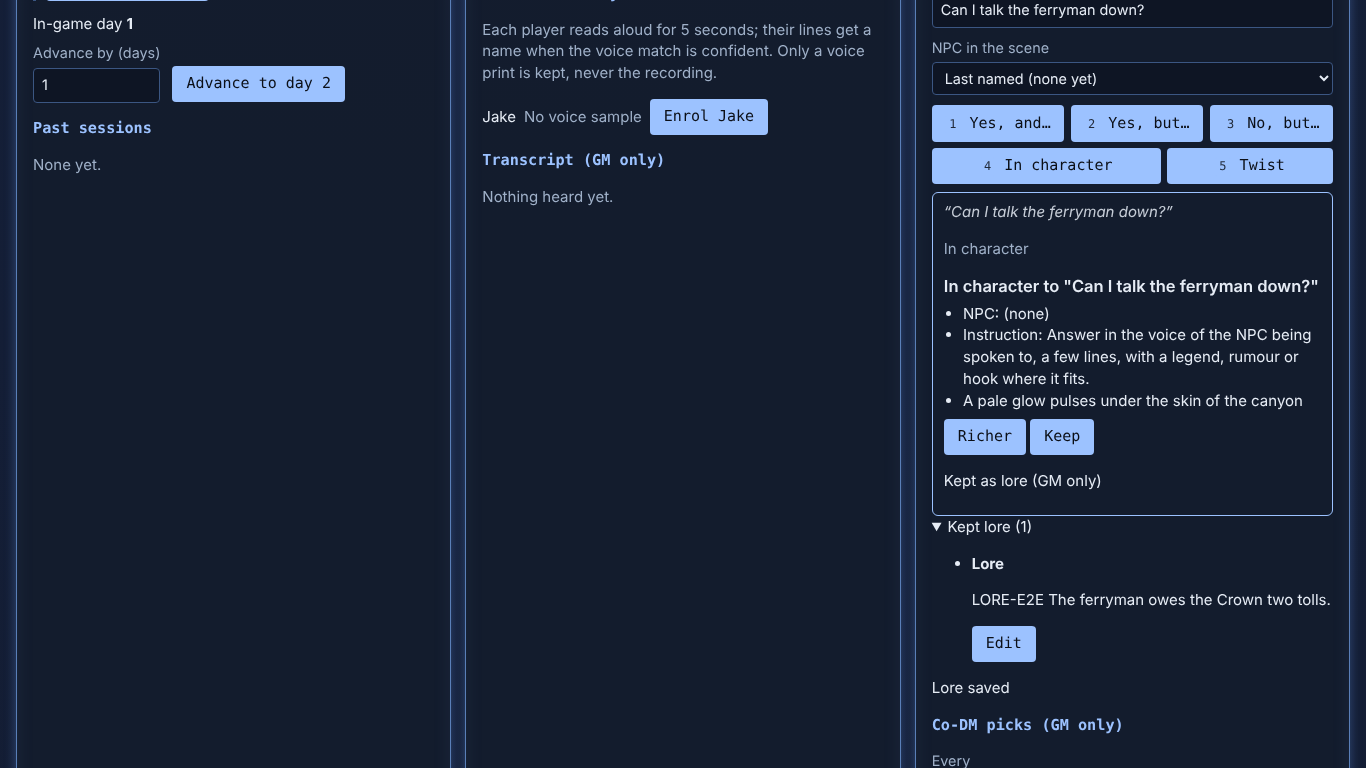
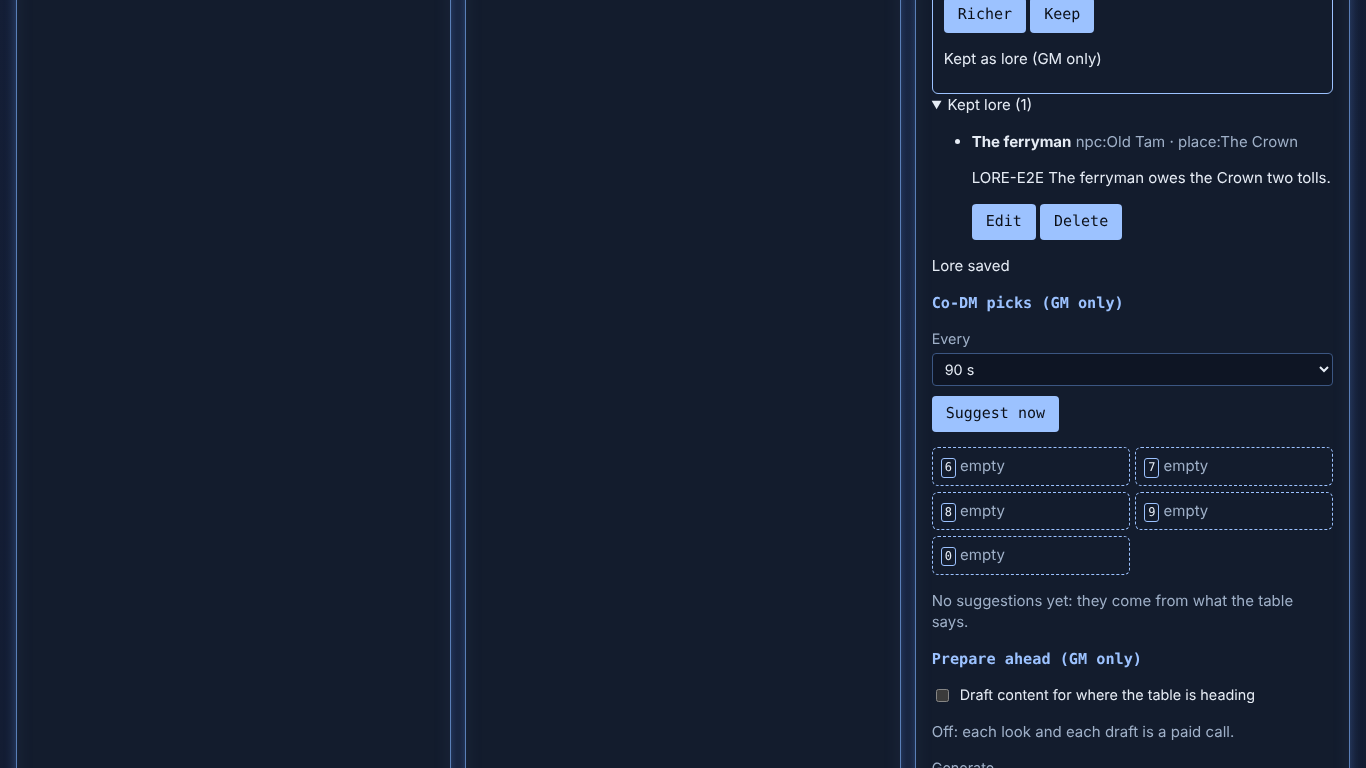
fix(codm): MD.3 review M3: Lore view edits title, NPC and place, and deletes
Claude-Session: https://claude.ai/code/session_015YxiCcnJqUjop1RT3KMcNN

diff --git a/apps/web/src/gm/LoreView.tsx b/apps/web/src/gm/LoreView.tsx
@@ -1,16 +1,26 @@
 import { useState } from 'react';
 import type { CampaignState } from '@the-system/engine';
 import type { LiveClient } from '../live';
-import { LORE_TAG, loreNotes } from './quickModel';
+import { LORE_TAG, loreNotes, loreScope, retagLore } from './quickModel';
+
+interface LoreDraft {
+  readonly id: string;
+  readonly title: string;
+  readonly body: string;
+  readonly npc: string;
+  readonly place: string;
+}
 
 /**
  * MD.3 Lore view (DESIGN §11 "Keep"): the lore the GM has kept, newest first,
- * each with the NPC, place and session it is tagged to, and an editor. Kept
- * lore is a GM note: GM-only, and the co-DM reads it for that NPC or place.
+ * each with the NPC, place and session it is tagged to. The GM edits a note's
+ * title, text, NPC and place, or deletes it (review M3). Kept lore is a GM
+ * note: GM-only, and the co-DM reads it for that NPC or place.
  */
 export function LoreView({ client, state }: { client: LiveClient; state: CampaignState }) {
   const notes = loreNotes(Object.values(state.notes));
-  const [editing, setEditing] = useState<{ id: string; body: string } | null>(null);
+  const [editing, setEditing] = useState<LoreDraft | null>(null);
+  const [busy, setBusy] = useState(false);
   const [message, setMessage] = useState<string | null>(null);
 
   const save = async () => {
@@ -20,17 +30,40 @@ export function LoreView({ client, state }: { client: LiveClient; state: Campaig
       setMessage('Lore cannot be empty');
       return;
     }
+    const note = state.notes[editing.id];
+    if (!note) {
+      setEditing(null);
+      setMessage('That lore was deleted');
+      return;
+    }
+    setBusy(true);
     const r = await client.command({
       type: 'note.edit',
       noteId: editing.id,
       characterId: null,
+      title: editing.title.trim() || 'Lore',
       body,
+      tags: retagLore(note.tags, editing),
     });
+    setBusy(false);
     if (r.ok) {
       setEditing(null);
       setMessage('Lore saved');
     } else setMessage(r.error);
   };
+
+  const remove = async (id: string, title: string) => {
+    if (!window.confirm(`Delete the kept lore "${title}"? The co-DM stops using it.`)) return;
+    setBusy(true);
+    const r = await client.command({ type: 'note.delete', noteId: id, characterId: null });
+    setBusy(false);
+    if (r.ok) {
+      if (editing?.id === id) setEditing(null);
+      setMessage('Lore deleted');
+    } else setMessage(r.error);
+  };
+
+  const set = (patch: Partial<LoreDraft>) => setEditing((d) => (d ? { ...d, ...patch } : d));
 
   return (
     <details className="lore-view" data-testid="lore-view">
@@ -41,42 +74,75 @@ export function LoreView({ client, state }: { client: LiveClient; state: Campaig
         <ul aria-label="Kept lore">
           {notes.map((n) => (
             <li key={n.id} data-testid="lore-note">
-              <strong>{n.title}</strong>{' '}
-              <span className="muted">
-                {n.tags.filter((t) => t.toLowerCase() !== LORE_TAG).join(' · ')}
-              </span>
               {editing?.id === n.id ? (
                 <form
+                  aria-label="Edit kept lore"
                   onSubmit={(e) => {
                     e.preventDefault();
                     void save();
                   }}
                 >
                   <label>
+                    Title
+                    <input
+                      value={editing.title}
+                      maxLength={200}
+                      onChange={(e) => set({ title: e.target.value })}
+                    />
+                  </label>
+                  <label>
+                    NPC
+                    <input
+                      value={editing.npc}
+                      maxLength={100}
+                      placeholder="none"
+                      onChange={(e) => set({ npc: e.target.value })}
+                    />
+                  </label>
+                  <label>
+                    Place
+                    <input
+                      value={editing.place}
+                      maxLength={100}
+                      placeholder="none"
+                      onChange={(e) => set({ place: e.target.value })}
+                    />
+                  </label>
+                  <label>
                     Edit lore
                     <textarea
                       value={editing.body}
                       maxLength={4000}
                       rows={4}
-                      onChange={(e) => setEditing({ id: n.id, body: e.target.value })}
+                      onChange={(e) => set({ body: e.target.value })}
                     />
                   </label>
-                  <button type="submit">Save</button>{' '}
+                  <button type="submit" disabled={busy}>
+                    Save
+                  </button>{' '}
                   <button type="button" onClick={() => setEditing(null)}>
                     Cancel
                   </button>
                 </form>
               ) : (
                 <>
+                  <strong>{n.title}</strong>{' '}
+                  <span className="muted">
+                    {n.tags.filter((t) => t.toLowerCase() !== LORE_TAG).join(' · ')}
+                  </span>
                   <p className="lore-body">{n.body}</p>
                   <button
                     type="button"
+                    disabled={busy}
                     onClick={() => {
                       setMessage(null);
-                      setEditing({ id: n.id, body: n.body });
+                      setEditing({ id: n.id, title: n.title, body: n.body, ...loreScope(n.tags) });
                     }}
                   >
                     Edit
+                  </button>{' '}
+                  <button type="button" disabled={busy} onClick={() => void remove(n.id, n.title)}>
+                    Delete
                   </button>
                 </>
               )}

diff --git a/e2e/MD.3.spec.ts b/e2e/MD.3.spec.ts
@@ -82,6 +82,16 @@ test('Keep saves a quick answer as GM lore; the Lore view lists and edits it', a
   await note.getByRole('button', { name: 'Save' }).click();
   await expect(lore.getByRole('status')).toHaveText('Lore saved');
   await expect(note).toContainText('two tolls');
+  // Review M3: the GM retitles it and tags it to an NPC and a place.
+  await note.getByRole('button', { name: 'Edit' }).click();
+  const edit = note.getByRole('form', { name: 'Edit kept lore' });
+  await edit.getByLabel('Title').fill('The ferryman');
+  await edit.getByLabel('NPC').fill('Old Tam');
+  await edit.getByLabel('Place').fill('The Crown');
+  await edit.getByRole('button', { name: 'Save' }).click();
+  await expect(lore.getByRole('status')).toHaveText('Lore saved');
+  await expect(note.locator('strong')).toHaveText('The ferryman');
+  await expect(note).toContainText('npc:Old Tam · place:The Crown');
   await lore.scrollIntoViewIfNeeded();
   await gm.screenshot({ path: path.join(shots, 'gm-lore-view-1366x768.png') });
 
@@ -97,6 +107,17 @@ test('Keep saves a quick answer as GM lore; the Lore view lists and edits it', a
   await expect(codm.getByText('Kept as lore (GM only)').last()).toBeVisible();
   await expect(lore.locator('summary')).toHaveText('Kept lore (2)');
   await expect(note.first()).toContainText('Sap & Sinew');
+
+  // Review M3: the GM deletes a kept note (after confirming).
+  gm.once('dialog', (d) => void d.accept());
+  await lore
+    .getByTestId('lore-note')
+    .filter({ hasText: 'two tolls' })
+    .getByRole('button', { name: 'Delete' })
+    .click();
+  await expect(lore.getByRole('status')).toHaveText('Lore deleted');
+  await expect(lore.locator('summary')).toHaveText('Kept lore (1)');
+  await expect(lore).not.toContainText('two tolls');
 
   // Players never see kept lore.
   expect(frames.length).toBeGreaterThan(0);

diff --git a/apps/web/test/keepLore.test.ts b/apps/web/test/keepLore.test.ts
@@ -58,3 +58,31 @@ describe('Keep lore (MD.3)', () => {
     expect(out.map((x) => x.id)).toEqual(['b', 'a']);
   });
 });
+
+// MD.3 review M3: the Lore view retags a note to another NPC or place.
+describe('Lore view retagging (MD.3 review M3)', () => {
+  it('reads the NPC and place a note is tagged to', async () => {
+    const { loreScope } = await import('../src/gm/quickModel');
+    expect(loreScope(['lore', 'NPC:Old Tam', 'place:The Crown', 'session:2'])).toEqual({
+      npc: 'Old Tam',
+      place: 'The Crown',
+    });
+    expect(loreScope(['lore'])).toEqual({ npc: '', place: '' });
+  });
+
+  it('replaces the NPC and place tags and keeps every other tag', async () => {
+    const { retagLore } = await import('../src/gm/quickModel');
+    expect(
+      retagLore(['lore', 'npc:Old Tam', 'place:The Crown', 'session:2', 'debt'], {
+        npc: ' Sal ',
+        place: 'Rake Canyons',
+      }),
+    ).toEqual(['lore', 'npc:Sal', 'place:Rake Canyons', 'session:2', 'debt']);
+    // Blank removes; the lore tag is never lost, even if missing.
+    expect(retagLore(['npc:Sal', 'session:1'], { npc: '', place: '' })).toEqual([
+      'lore',
+      'session:1',
+    ]);
+    expect(retagLore(['Lore', 'PLACE:x'], { npc: 'A', place: '' })).toEqual(['Lore', 'npc:A']);
+  });
+});

diff --git a/apps/web/src/gm/quickModel.ts b/apps/web/src/gm/quickModel.ts
@@ -204,3 +204,28 @@ export function loreNotes<
       a.updatedAt < b.updatedAt ? 1 : a.updatedAt > b.updatedAt ? -1 : a.id < b.id ? -1 : 1,
     );
 }
+
+/** MD.3 review M3: the NPC and place a kept note is tagged to (first of each). */
+export function loreScope(tags: readonly string[]): { npc: string; place: string } {
+  const pick = (prefix: string): string =>
+    tags.find((t) => t.toLowerCase().startsWith(prefix))?.slice(prefix.length) ?? '';
+  return { npc: pick('npc:'), place: pick('place:') };
+}
+
+/**
+ * MD.3 review M3: a note's tags after the GM retags it in the Lore view: the
+ * NPC and place tags are replaced (blank removes them), every other tag (lore,
+ * session, the GM's own) is kept in place, and the lore tag is never lost.
+ */
+export function retagLore(
+  tags: readonly string[],
+  scope: { readonly npc: string; readonly place: string },
+): string[] {
+  const npc = scope.npc.trim();
+  const place = scope.place.trim();
+  const kept = tags.filter((t) => !/^(npc|place):/iu.test(t));
+  const out = kept.some((t) => t.toLowerCase() === LORE_TAG) ? kept : [LORE_TAG, ...kept];
+  const at = out.findIndex((t) => t.toLowerCase() === LORE_TAG) + 1;
+  out.splice(at, 0, ...(npc ? [`npc:${npc}`] : []), ...(place ? [`place:${place}`] : []));
+  return out;
+}
